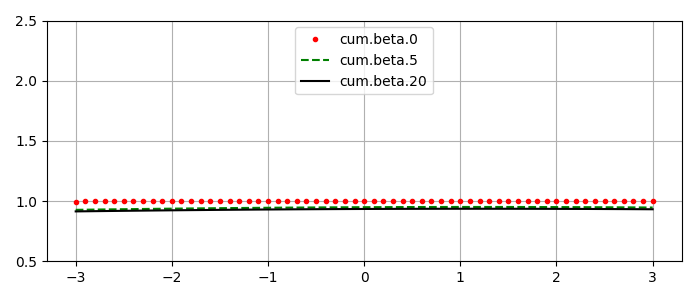
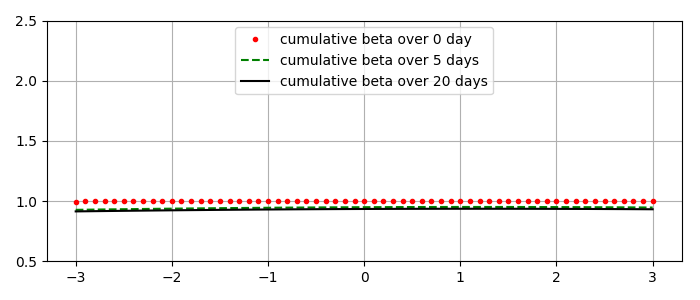
update figures
update figures

Changed region(s): [[0.33, 0.18, 0.72, 0.33], [0.33, 0.09, 0.72, 0.15]]

diff --git a/figures/plot_cum_beta.py b/figures/plot_cum_beta.py
@@ -86,9 +86,9 @@ def plot_cum_beta_helper(filename, portfolio, id, param):
     # draw the cumulative beta graph using pyplot
     plt.figure(figsize=(7,3))
 
-    plt.plot(mktrf, output_beta[:,0], 'r.', label='cum.beta.0')
-    plt.plot(mktrf, output_beta[:,5], 'g--', label='cum.beta.5')
-    plt.plot(mktrf, output_beta[:,20], 'k-', label='cum.beta.20')
+    plt.plot(mktrf, output_beta[:,0], 'r.', label='cumulative beta over 0 day')
+    plt.plot(mktrf, output_beta[:,5], 'g--', label='cumulative beta over 5 days')
+    plt.plot(mktrf, output_beta[:,20], 'k-', label='cumulative beta over 20 days')
 
     if str.find(filename, 'value') >= 0:
         plt.yticks(np.arange(0.8,2.01,0.2))
